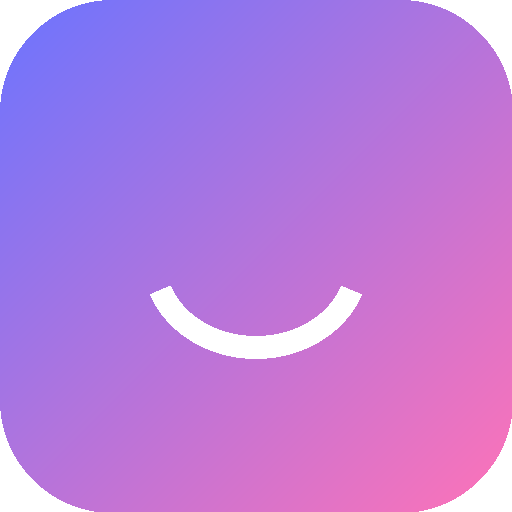
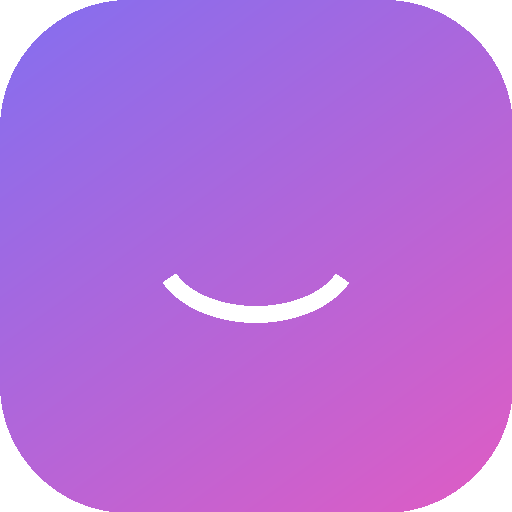
Add files via upload

diff --git a/index.html b/index.html
@@ -52,8 +52,8 @@
         </section>
 
         <section class="card check-card">
-          <h2 data-i18n="writeSentence">写下一句话 ✎</h2>
-          <textarea id="moodInput" data-i18n-placeholder="inputPlaceholder" placeholder="例如：今天有点累，但也完成了很多事"></textarea>
+          <h2 data-i18n="writeSentence">写下一句话（可选）✎</h2>
+          <textarea id="moodInput" data-i18n-placeholder="inputPlaceholder" placeholder="可以不写，直接选择心情后点击开始记录"></textarea>
           <button id="startBtn" class="primary" type="button" data-i18n="startRecord">开始记录</button>
         </section>
 
@@ -198,6 +198,6 @@
     </nav>
   </div>
 
-  <script src="./app.js?v=6"></script>
+  <script src="./app.js?v=8"></script>
 </body>
 </html>

diff --git a/service-worker.js b/service-worker.js
@@ -1,9 +1,9 @@
-const CACHE_NAME = "moodly-ui-scroll-fixed-v6";
+const CACHE_NAME = "moodly-icon-continuity-v8";
 const ASSETS = [
   "./",
   "./index.html",
   "./style.css",
-  "./app.js?v=6",
+  "./app.js?v=8",
   "./manifest.webmanifest",
   "./icons/icon-192.png",
   "./icons/icon-512.png"

diff --git a/style.css b/style.css
@@ -12,7 +12,7 @@ body{display:flex;justify-content:center}
 .top{display:flex;justify-content:space-between;align-items:flex-start;margin:8px 0 20px}
 .top h1{font-size:36px;line-height:1;margin:0 0 8px;font-weight:900;letter-spacing:-.04em}
 .top p{margin:0;color:#69789f;font-weight:700}
-.app-mark{width:52px;height:52px;border-radius:18px;display:grid;place-items:center;background:linear-gradient(135deg,#8b7cff,#ef75b7);color:#fff;font-size:28px;box-shadow:0 14px 32px rgba(126,105,255,.23)}
+.app-mark{width:52px;height:52px;border-radius:18px;display:grid;place-items:center;background:linear-gradient(135deg,#846ff0,#e05dc4);color:#fff;font-size:32px;line-height:1;box-shadow:0 14px 32px rgba(126,105,255,.23);font-weight:700}
 .card{background:rgba(255,255,255,.8);border:1px solid rgba(255,255,255,.96);box-shadow:0 18px 55px rgba(80,90,130,.12);border-radius:24px;padding:20px;margin-bottom:16px;backdrop-filter:blur(16px)}
 .card h2{font-size:18px;margin:0 0 6px}
 .hint,.card p{color:#6b7aa1;margin:0 0 14px;line-height:1.55}

diff --git a/README.md b/README.md
@@ -12,3 +12,19 @@
 `你的网址?v=6`
 
 如果还是旧页面，请清除浏览器网站缓存，或在 Render 手动 Redeploy 最新 commit。
+
+
+## v7 修复
+- 只选择心情也可以点击“开始记录”
+- 输入框改为可选
+- 如果没有填写文字，会自动生成一条心情记录，例如：“我现在的心情是：平静”
+- Service Worker 更新到 v7
+
+部署后请用：
+`你的网址?v=7`
+
+
+## v8 图标延续
+- PWA 图标已调整为之前的紫粉渐变笑脸图标风格。
+- Today 顶部图标继续使用同一视觉语言。
+- 部署后建议用 `?v=8` 打开，避免旧缓存。